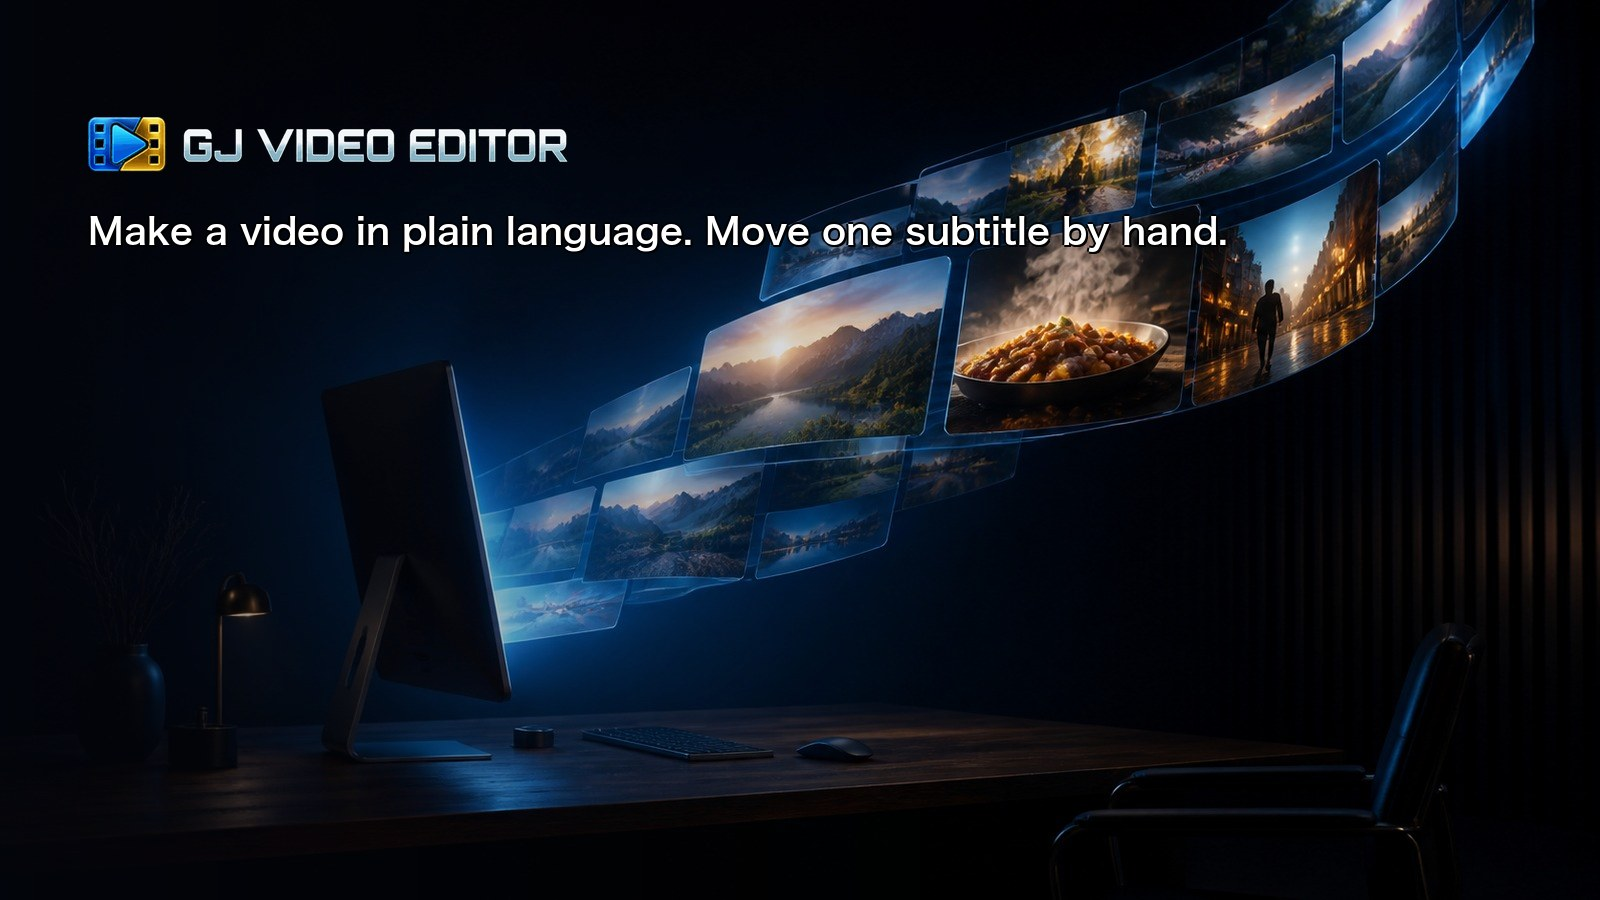
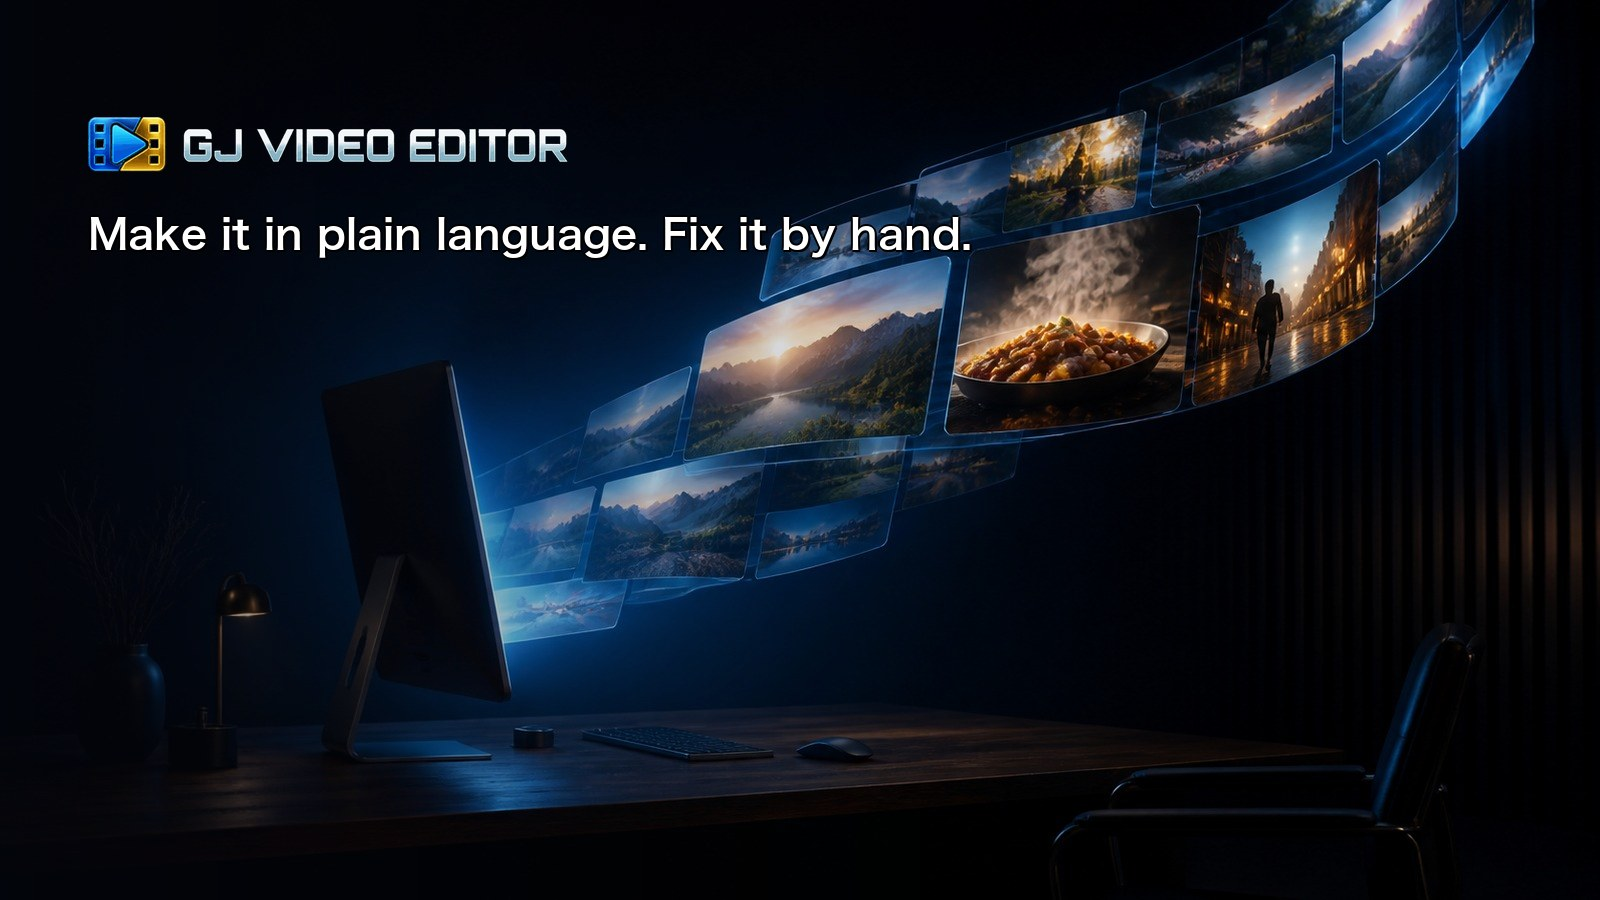
メインビジュアルのキャッチを短くする

Changed region(s): [[0.0625, 0.2178, 0.7812, 0.28]]

diff --git a/tools/make_hero.py b/tools/make_hero.py
@@ -21,10 +21,11 @@ LOGO = os.path.join(ROOT, "ui", "assets", "logo_editor.png")
 OUT = os.path.join(ROOT, "docs", "assets", "hero.jpg")
 OUT_EN = os.path.join(ROOT, "docs", "assets", "hero-en.jpg")
 
-# ページの h1 と揃える（別々に持つとズレるので、変えるときは両方直す）
-COPY = "日本語で動画を作り、字幕1つから手で直せる。"
+# 画像用は h1 を短くしたもの。**h1 と同じ文にしない**
+# （ページ上で同じ文が2回続けて出て重複に見える。画像は単体でも意味が通る長さに留める）
+COPY = "日本語で作り、手で直せる。"
 # 英語版ページ用。日本語の画像を英語ページに出さない
-COPY_EN = "Make a video in plain language. Move one subtitle by hand."
+COPY_EN = "Make it in plain language. Fix it by hand."
 
 FONTS = [
     "/System/Library/Fonts/ヒラギノ角ゴシック W6.ttc",
@@ -69,7 +70,7 @@ def main(copy_text, out=OUT, en=False):
 
     # キャッチ。1行で置き、背景が明るくても読めるよう薄い影を敷く
     ty = y + lg.height + int(H * 0.045)
-    f = font(int(H * (0.040 if en else 0.049)))
+    f = font(int(H * (0.046 if en else 0.056)))
     d = ImageDraw.Draw(im)
     for dx, dy in ((0, 2), (2, 0), (0, -2), (-2, 0), (2, 2)):
         d.text((x + dx, ty + dy), copy_text, font=f, fill=(0, 0, 0))
